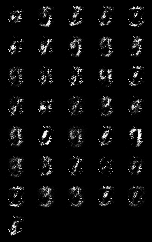
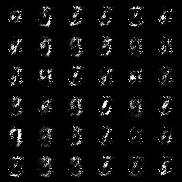
viz

diff --git a/src/dra_gan.py b/src/dra_gan.py
@@ -279,7 +279,7 @@ class DRAGANTrainer:
                 os.makedirs(outname)
             torchvision.utils.save_image(images.unsqueeze(1).data,
                                          outname + 'reconst_%d.png'
-                                         %(epoch), nrow = 5)
+                                         %(epoch), nrow=size_figure_grid)
 
     def viz_loss(self):
         """ Visualize loss for the generator, discriminator """

diff --git a/README.md b/README.md
@@ -15,24 +15,24 @@ All models were trained for 25 epochs with hidden dimension 400, latent dimensio
 
 *Model* | *Epoch 1* | *Epoch 25* | *Progress* | *Loss*
 :---: | :---: | :---: | :---: | :---: |
-[MMGAN](https://arxiv.org/abs/1406.2661) | <img src = 'viz/MMGAN/reconst_1.png' height = '200px'> | <img src = 'viz/MMGAN/reconst_25.png' height = '200px'> | <img src = 'viz/MMGAN/reconst_1.png' height = '200px'> | <img src = 'viz/losses/MMGAN_loss.png' height = '200px'>
-[NSGAN](https://arxiv.org/abs/1406.2661) | <img src = 'viz/NSGAN/reconst_1.png' height = '200px'> | <img src = 'viz/NSGAN/reconst_25.png' height = '200px'> | <img src = 'viz/NSGAN/reconst_1.png' height = '200px'> | <img src = 'viz/losses/NSGAN_loss.png' height = '200px'>
-[WGAN](https://arxiv.org/abs/1701.07875) | <img src = 'viz/WGAN/reconst_1.png' height = '200px'> | <img src = 'viz/WGAN/reconst_25.png' height = '200px'> | <img src = 'viz/WGAN/reconst_1.png' height = '200px'> | <img src = 'viz/losses/WGAN_loss.png' height = '200px'>
-[WGANGP](https://arxiv.org/abs/1704.00028) | <img src = 'viz/WGANGP/reconst_1.png' height = '200px'> | <img src = 'viz/WGANGP/reconst_25.png' height = '200px'> | <img src = 'viz/WGANGP/reconst_1.png' height = '200px'> | <img src = 'viz/losses/WGANGP_loss.png' height = '200px'>
-[DRAGAN](https://arxiv.org/abs/1705.07215) | <img src = 'viz/DRAGAN/reconst_1.png' height = '200px'> | <img src = 'viz/DRAGAN/reconst_25.png' height = '200px'> | <img src = 'viz/DRAGAN/reconst_1.png' height = '200px'> | <img src = 'viz/losses/DRAGAN_loss.png' height = '200px'>
-[BEGAN](https://arxiv.org/abs/1703.10717) | <img src = 'viz/BEGAN/reconst_1.png' height = '200px'> | <img src = 'viz/BEGAN/reconst_25.png' height = '200px'> | <img src = 'viz/BEGAN/reconst_1.png' height = '200px'> | <img src = 'viz/losses/BEGAN_loss.png' height = '200px'>
-[LSGAN](https://arxiv.org/abs/1611.04076) | <img src = 'viz/LSGAN/reconst_1.png' height = '200px'> | <img src = 'viz/LSGAN/reconst_25.png' height = '200px'> | <img src = 'viz/LSGAN/reconst_1.png' height = '200px'> | <img src = 'viz/losses/LSGAN_loss.png' height = '200px'>
-[RaNSGAN](https://arxiv.org/abs/1807.00734) | <img src = 'viz/RaNSGAN/reconst_1.png' height = '200px'> | <img src = 'viz/RaNSGAN/reconst_25.png' height = '200px'> | <img src = 'viz/RaNSGAN/reconst_1.png' height = '200px'> | <img src = 'viz/losses/RaNSGAN_loss.png' height = '200px'>
-[FisherGAN](https://arxiv.org/abs/1606.07536) | <img src = 'viz/FisherGAN/reconst_1.png' height = '200px'> | <img src = 'viz/FisherGAN/reconst_25.png' height = '200px'> | <img src = 'viz/FisherGAN/reconst_1.png' height = '200px'> | <img src = 'viz/losses/FisherGAN_loss.png' height = '200px'>
-[InfoGAN](https://arxiv.org/abs/1606.03657) | <img src = 'viz/InfoGAN/reconst_1.png' height = '200px'> | <img src = 'viz/InfoGAN/reconst_25.png' height = '200px'> | <img src = 'viz/InfoGAN/reconst_1.png' height = '200px'> | <img src = 'viz/losses/InfoGAN_loss.png' height = '200px'>
-[f-TVGAN](https://arxiv.org/abs/1606.00709) | <img src = 'viz/fGAN/total_variation/reconst_1.png' height = '200px'> | <img src = 'viz/fGAN/total_variation/reconst_25.png' height = '200px'> | <img src = 'viz/fGAN/total_variation/reconst_1.png' height = '200px'> | <img src = 'viz/losses/fGAN_total_variation_loss.png' height = '200px'>
-[f-PearsonGAN](https://arxiv.org/abs/1606.00709) | <img src = 'viz/fGAN/pearson/reconst_1.png' height = '200px'> | <img src = 'viz/fGAN/pearson/reconst_25.png' height = '200px'> | <img src = 'viz/fGAN/pearson/reconst_1.png' height = '200px'> | <img src = 'viz/losses/fGAN_pearson_loss.png' height = '200px'>
-[f-JSGAN](https://arxiv.org/abs/1606.00709) | <img src = 'viz/fGAN/jensen_shannon/reconst_1.png' height = '200px'> | <img src = 'viz/fGAN/jensen_shannon/reconst_25.png' height = '200px'> | <img src = 'viz/fGAN/jensen_shannon/reconst_1.png' height = '200px'> | <img src = 'viz/losses/fGAN_jensen_shannon_loss.png' height = '200px'>
-[f-ForwGAN](https://arxiv.org/abs/1606.00709) | <img src = 'viz/fGAN/forward_kl/reconst_1.png' height = '200px'> | <img src = 'viz/fGAN/forward_kl/reconst_25.png' height = '200px'> | <img src = 'viz/fGAN/forward_kl/reconst_1.png' height = '200px'> | <img src = 'viz/losses/fGAN_forward_kl_loss.png' height = '200px'>
-[f-RevGAN](https://arxiv.org/abs/1606.00709) | <img src = 'viz/fGAN/reverse_kl/reconst_1.png' height = '200px'> | <img src = 'viz/fGAN/reverse_kl/reconst_25.png' height = '200px'> | <img src = 'viz/fGAN/reverse_kl/reconst_1.png' height = '200px'> | <img src = 'viz/losses/fGAN_reverse_kl_loss.png' height = '200px'>
-[f-HellingerGAN](https://arxiv.org/abs/1606.00709) | <img src = 'viz/fGAN/hellinger/reconst_1.png' height = '200px'> | <img src = 'viz/fGAN/hellinger/reconst_25.png' height = '200px'> | <img src = 'viz/fGAN/hellinger/reconst_1.png' height = '200px'> | <img src = 'viz/losses/fGAN_hellinger_loss.png' height = '200px'>
-[VAE](https://arxiv.org/abs/1312.6114) | <img src = 'viz/VAE/sample_1.png' height = '200px'> | <img src = 'viz/VAE/sample_25.png' height = '200px'> | <img src = 'viz/VAE/sample_1.png' height = '200px'> | <img src = 'viz/losses/VAE_loss.png' height = '200px'>
-[BIRVAE](https://arxiv.org/abs/1807.07306) | <img src = 'viz/BIRVAE/sample_1.png' height = '200px'> | <img src = 'viz/BIRVAE/sample_25.png' height = '200px'> | <img src = 'viz/BIRVAE/sample_1.png' height = '200px'> | <img src = 'viz/losses/BIRVAE_loss.png' height = '200px'>
+[MMGAN](https://arxiv.org/abs/1406.2661) | <img src = 'viz/MMGAN/reconst_1.png' height = '200px'> | <img src = 'viz/MMGAN/reconst_25.png' height = '200px'> | <img src = 'viz/gifs/MMGAN_gif.gif' height = '200px'> | <img src = 'viz/losses/MMGAN_loss.png' height = '200px'>
+[NSGAN](https://arxiv.org/abs/1406.2661) | <img src = 'viz/NSGAN/reconst_1.png' height = '200px'> | <img src = 'viz/NSGAN/reconst_25.png' height = '200px'> | <img src = 'viz/gifs/NSGAN_gif.gif' height = '200px'> | <img src = 'viz/losses/NSGAN_loss.png' height = '200px'>
+[WGAN](https://arxiv.org/abs/1701.07875) | <img src = 'viz/WGAN/reconst_1.png' height = '200px'> | <img src = 'viz/WGAN/reconst_25.png' height = '200px'> | <img src = 'viz/gifs/WGAN_gif.gif' height = '200px'> | <img src = 'viz/losses/WGAN_loss.png' height = '200px'>
+[WGANGP](https://arxiv.org/abs/1704.00028) | <img src = 'viz/WGANGP/reconst_1.png' height = '200px'> | <img src = 'viz/WGANGP/reconst_25.png' height = '200px'> | <img src = 'viz/gifs/WGANGP_gif.gif' height = '200px'> | <img src = 'viz/losses/WGANGP_loss.png' height = '200px'>
+[DRAGAN](https://arxiv.org/abs/1705.07215) | <img src = 'viz/DRAGAN/reconst_1.png' height = '200px'> | <img src = 'viz/DRAGAN/reconst_25.png' height = '200px'> | <img src = 'viz/gifs/DRAGAN_gif.gif' height = '200px'> | <img src = 'viz/losses/DRAGAN_loss.png' height = '200px'>
+[BEGAN](https://arxiv.org/abs/1703.10717) | <img src = 'viz/BEGAN/reconst_1.png' height = '200px'> | <img src = 'viz/BEGAN/reconst_25.png' height = '200px'> | <img src = 'viz/gifs/BEGAN_gif.gif' height = '200px'> | <img src = 'viz/losses/BEGAN_loss.png' height = '200px'>
+[LSGAN](https://arxiv.org/abs/1611.04076) | <img src = 'viz/LSGAN/reconst_1.png' height = '200px'> | <img src = 'viz/LSGAN/reconst_25.png' height = '200px'> | <img src = 'viz/gifs/LSGAN_gif.gif' height = '200px'> | <img src = 'viz/losses/LSGAN_loss.png' height = '200px'>
+[RaNSGAN](https://arxiv.org/abs/1807.00734) | <img src = 'viz/RaNSGAN/reconst_1.png' height = '200px'> | <img src = 'viz/RaNSGAN/reconst_25.png' height = '200px'> | <img src = 'viz/gifs/RaNSGAN_gif.gif' height = '200px'> | <img src = 'viz/losses/RaNSGAN_loss.png' height = '200px'>
+[FisherGAN](https://arxiv.org/abs/1606.07536) | <img src = 'viz/FisherGAN/reconst_1.png' height = '200px'> | <img src = 'viz/FisherGAN/reconst_25.png' height = '200px'> | <img src = 'viz/gifs/FisherGAN_gif.gif' height = '200px'> | <img src = 'viz/losses/FisherGAN_loss.png' height = '200px'>
+[InfoGAN](https://arxiv.org/abs/1606.03657) | <img src = 'viz/InfoGAN/reconst_1.png' height = '200px'> | <img src = 'viz/InfoGAN/reconst_25.png' height = '200px'> | <img src = 'viz/gifs/InfoGAN_gif.gif' height = '200px'> | <img src = 'viz/losses/InfoGAN_loss.png' height = '200px'>
+[f-TVGAN](https://arxiv.org/abs/1606.00709) | <img src = 'viz/fGAN/total_variation/reconst_1.png' height = '200px'> | <img src = 'viz/fGAN/total_variation/reconst_25.png' height = '200px'> | <img src = 'viz/gifs/fGAN_total_variation_gif.gif' height = '200px'> | <img src = 'viz/losses/fGAN_total_variation_loss.png' height = '200px'>
+[f-PearsonGAN](https://arxiv.org/abs/1606.00709) | <img src = 'viz/fGAN/pearson/reconst_1.png' height = '200px'> | <img src = 'viz/fGAN/pearson/reconst_25.png' height = '200px'> | <img src = 'viz/gifs/fGAN_pearson_gif.gif' height = '200px'> | <img src = 'viz/losses/fGAN_pearson_loss.png' height = '200px'>
+[f-JSGAN](https://arxiv.org/abs/1606.00709) | <img src = 'viz/fGAN/jensen_shannon/reconst_1.png' height = '200px'> | <img src = 'viz/fGAN/jensen_shannon/reconst_25.png' height = '200px'> | <img src = 'viz/gifs/fGAN_jensen_shannon_gif.gif' height = '200px'> | <img src = 'viz/losses/fGAN_jensen_shannon_loss.png' height = '200px'>
+[f-ForwGAN](https://arxiv.org/abs/1606.00709) | <img src = 'viz/fGAN/forward_kl/reconst_1.png' height = '200px'> | <img src = 'viz/fGAN/forward_kl/reconst_25.png' height = '200px'> | <img src = ''viz/gifs/fGAN_forward_kl_gif.gif' height = '200px'> | <img src = 'viz/losses/fGAN_forward_kl_loss.png' height = '200px'>
+[f-RevGAN](https://arxiv.org/abs/1606.00709) | <img src = 'viz/fGAN/reverse_kl/reconst_1.png' height = '200px'> | <img src = 'viz/fGAN/reverse_kl/reconst_25.png' height = '200px'> | <img src = 'viz/gifs/fGAN_reverse_kl_gif.gif' height = '200px'> | <img src = 'viz/losses/fGAN_reverse_kl_loss.png' height = '200px'>
+[f-HellingerGAN](https://arxiv.org/abs/1606.00709) | <img src = 'viz/fGAN/hellinger/reconst_1.png' height = '200px'> | <img src = 'viz/fGAN/hellinger/reconst_25.png' height = '200px'> | <img src = 'viz/gifs/fGAN_hellinger_gif.gif' height = '200px'> | <img src = 'viz/losses/fGAN_hellinger_loss.png' height = '200px'>
+[VAE](https://arxiv.org/abs/1312.6114) | <img src = 'viz/VAE/sample_1.png' height = '200px'> | <img src = 'viz/VAE/sample_25.png' height = '200px'> | <img src = 'viz/gifs/VAE_gif.gif' height = '200px'> | <img src = 'viz/losses/VAE_loss.png' height = '200px'>
+[BIRVAE](https://arxiv.org/abs/1807.07306) | <img src = 'viz/BIRVAE/sample_1.png' height = '200px'> | <img src = 'viz/BIRVAE/sample_25.png' height = '200px'> | <img src = 'viz/gifs/BIRVAE_gif.gif' height = '200px'> | <img src = 'viz/losses/BIRVAE_loss.png' height = '200px'>
 
 # TODO
 Models: CVAE, denoising VAE, adversarial autoencoder | Bayesian GAN, Self-attention GAN, Primal-Dual Wasserstein GAN  
